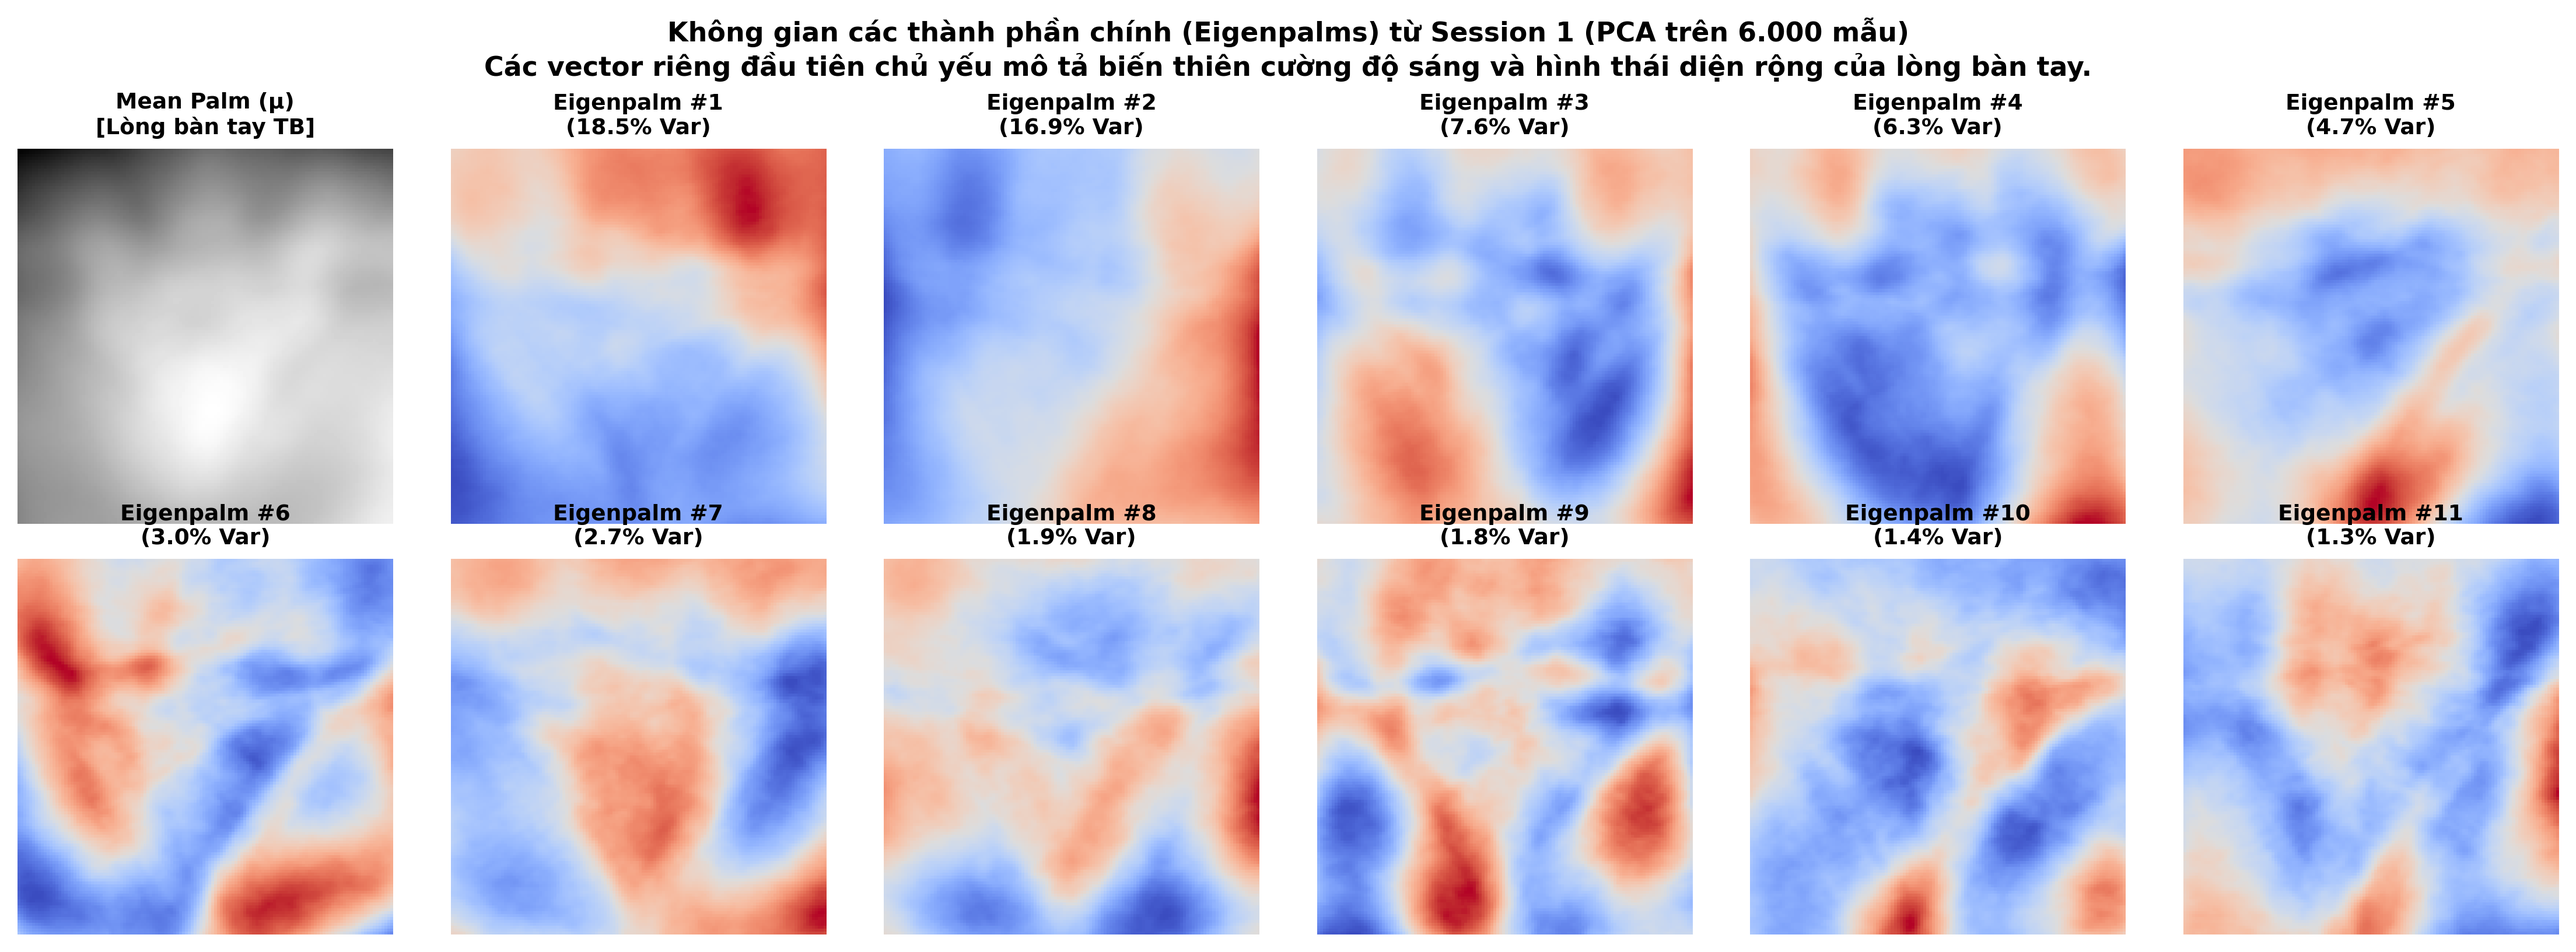
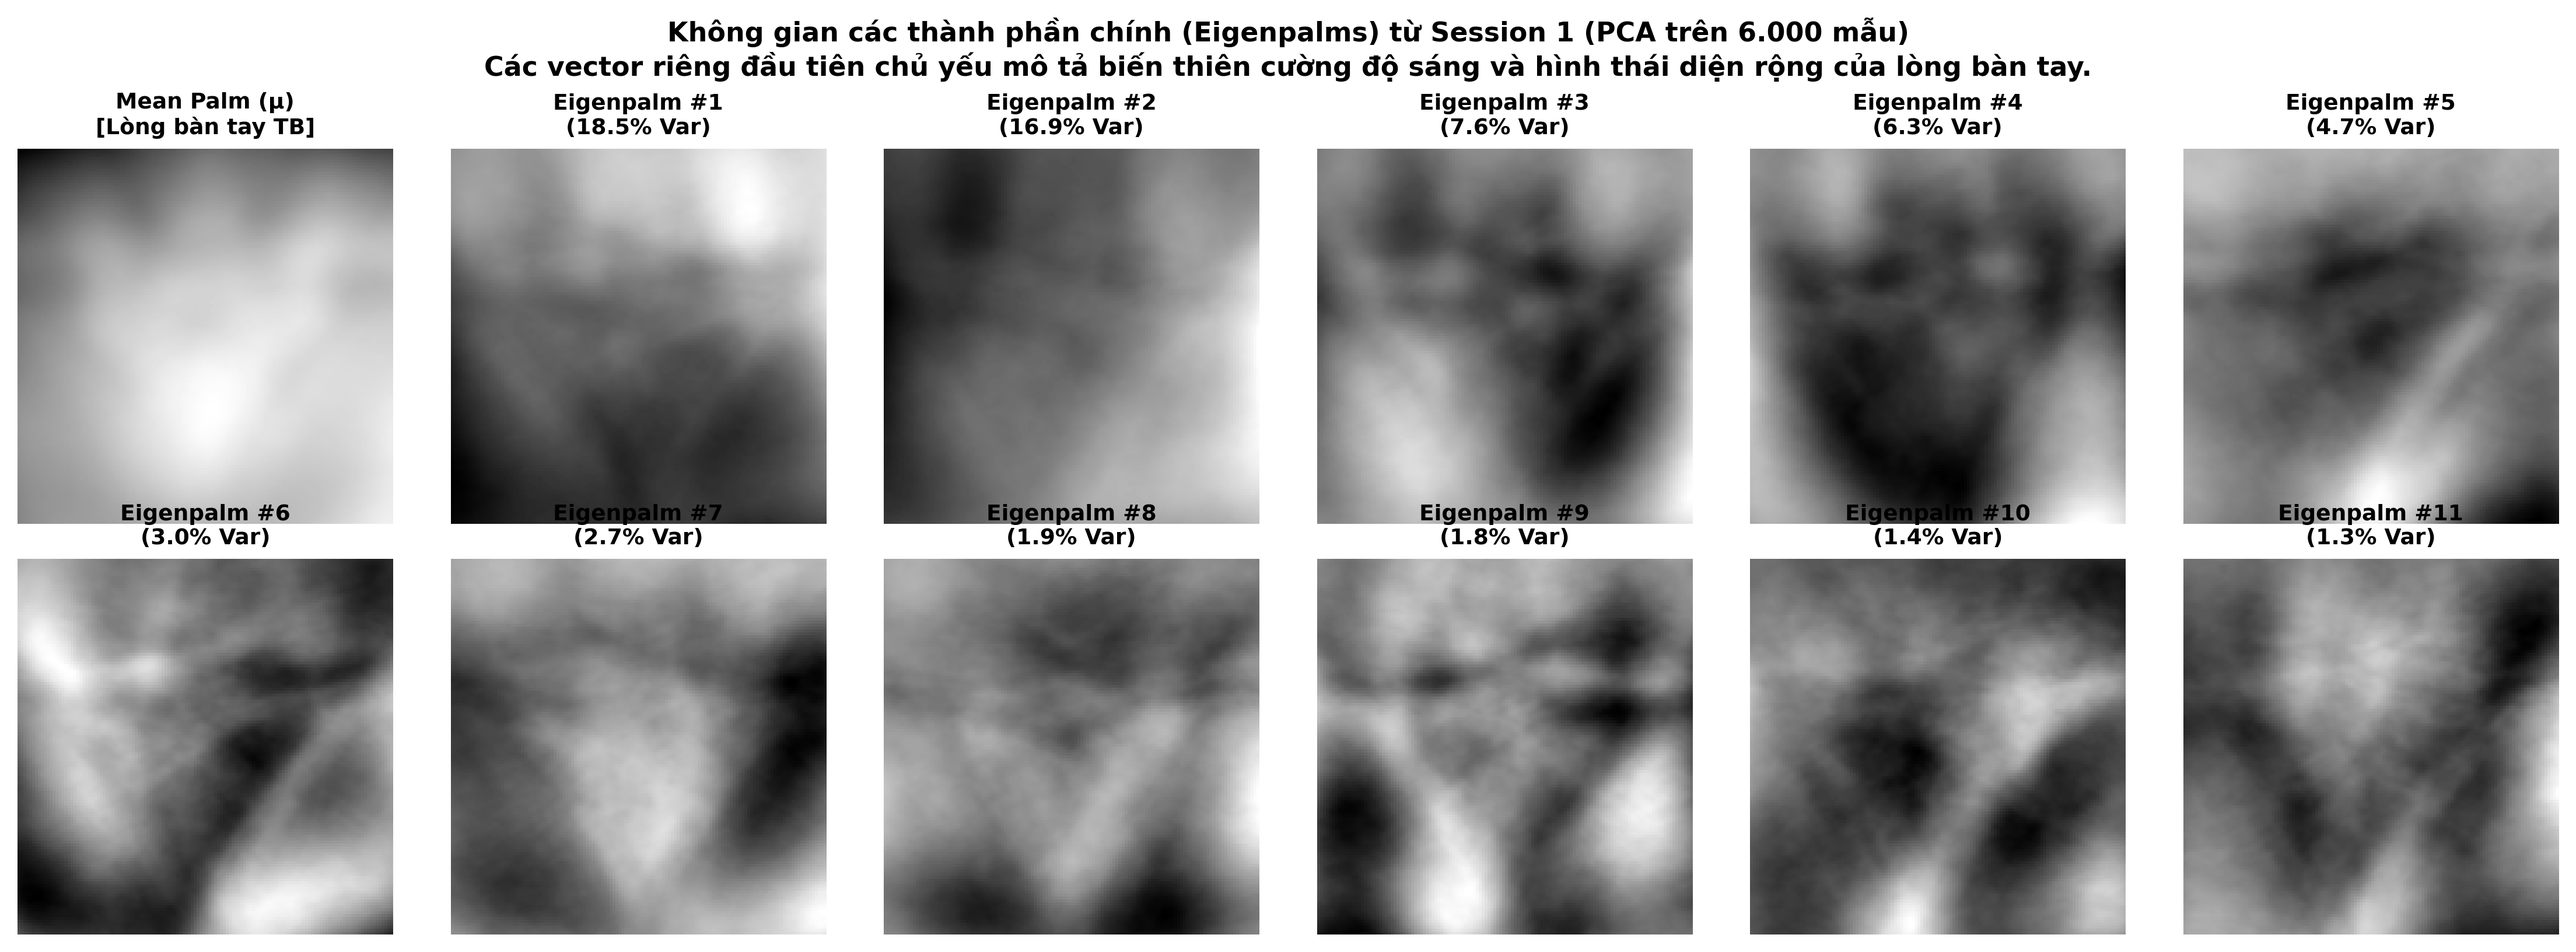
style(visuals): calibrate dimensionality reduction plots to publication standards with grayscale eigenpalms and elegant palette

diff --git a/scripts/generate_dimensionality_reduction_visuals.py b/scripts/generate_dimensionality_reduction_visuals.py
@@ -43,8 +43,8 @@ def generate_eigenpalms_plot(pca: PCA, save_paths: list[Path]) -> None:
     for idx in range(11):
         ax = axes[idx + 1]
         comp_img = pca.components_[idx].reshape(128, 128)
-        # Use colormap to show positive and negative variance modes
-        ax.imshow(comp_img, cmap="coolwarm")
+        # Academic grayscale visualization of eigen-vectors (standard publication style)
+        ax.imshow(normalize_display(comp_img), cmap="gray")
         ax.set_title(
             f"Eigenpalm #{idx + 1}\n({var_ratios[idx]:.1f}% Var)",
             fontsize=9,
@@ -117,7 +117,7 @@ def generate_reconstruction_progression(
                 f"k = {k}{is_e3_dim}\nPSNR: {psnr:.1f} dB | -{compression:.1f}%",
                 fontsize=8,
                 fontweight="bold" if k == 256 else "normal",
-                color="#b30000" if k == 256 else "black",
+                color="#2b5c8f" if k == 256 else "#2d3748",
                 pad=6,
             )
             ax.axis("off")
@@ -148,9 +148,9 @@ def generate_session_shift_scatter(
     """Plot 2D projection (PC1 vs PC2) showing the session shift / domain drift."""
     fig, ax = plt.subplots(figsize=(8.5, 6.5), dpi=300)
 
-    # Choose 5 representative Palm IDs
+    # Choose 5 representative Palm IDs with elegant academic palette (ColorBrewer/Dark2)
     target_ids = [1, 2, 3, 4, 5]
-    colors = ["#e41a1c", "#377eb8", "#4daf4a", "#984ea3", "#ff7f00"]
+    colors = ["#2b5c8f", "#d95f02", "#1b9e77", "#7570b3", "#4a5568"]
 
     # Transform all samples of target IDs
     z_s1 = pca.transform(x_s1)
